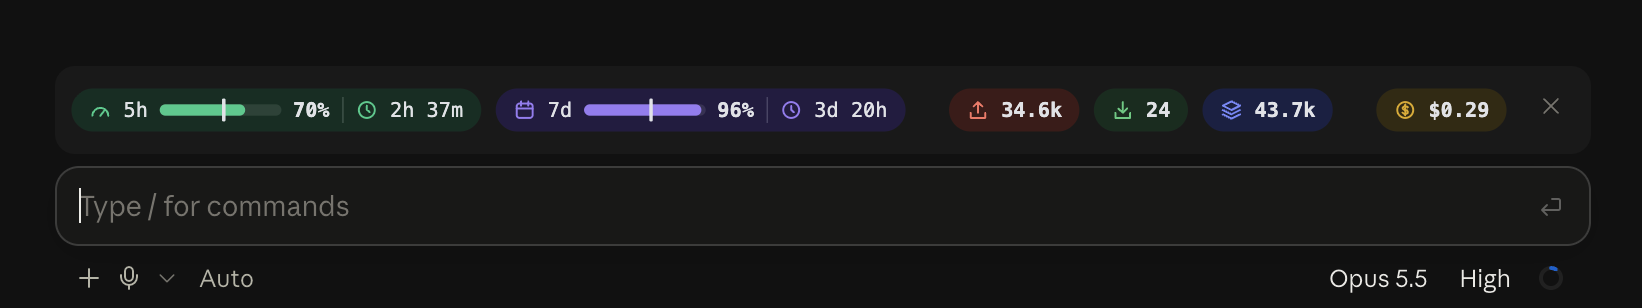
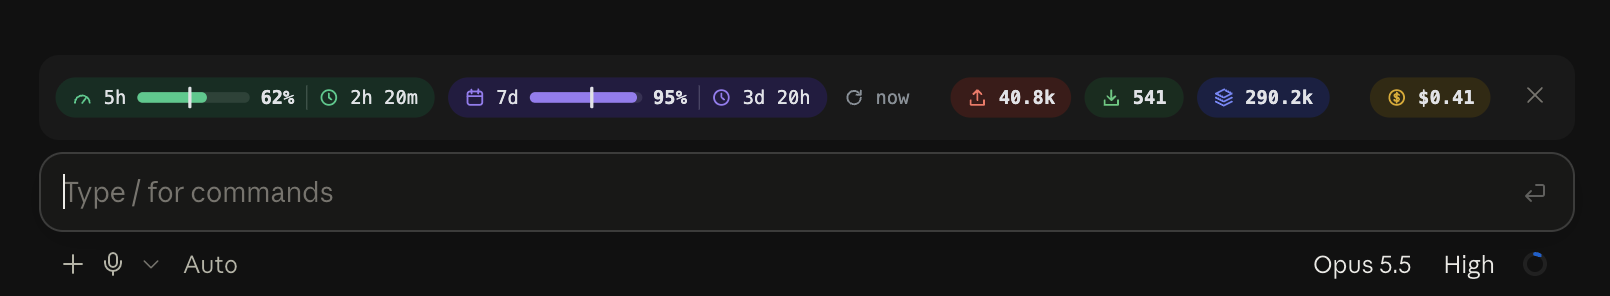
Replace the dark-palette screenshot
Documentation only. The new screenshot shows the reading-age mark.

diff --git a/README.md b/README.md
@@ -119,7 +119,7 @@ Options are read from `pluginConfigs` in `~/.claude/settings.json`, keyed by the
 | `showUpdated` | `true` | Show how long ago the rate-limit reading was taken, after the `7d` pill |
 | `countCacheWrites` | `true` | `true`: the up arrow is uncached input plus cache writes. `false`: it is uncached input alone, and cache writes are counted with cache reads |
 
-With `"theme": "dark"` (this screenshot predates the reading-age mark):
+With `"theme": "dark"`:
 
 ![The dark palette in the app's dark theme](docs/screenshot-dark-palette.png)
 

diff --git a/README.zh.md b/README.zh.md
@@ -119,7 +119,7 @@ claude --plugin-dir ~/.claude/mods/usage-bar
 | `showUpdated` | `true` | 在 `7d` 胶囊后显示额度读数是多久之前读到的 |
 | `countCacheWrites` | `true` | `true`：向上箭头为未缓存输入加缓存写入。`false`：只算未缓存输入，缓存写入并入缓存读取一项 |
 
-设置 `"theme": "dark"` 后的效果（这张截图早于读数时间标记的加入）：
+设置 `"theme": "dark"` 后的效果：
 
 ![应用深色主题下的深色配色](docs/screenshot-dark-palette.png)
 

diff --git a/CHANGELOG.md b/CHANGELOG.md
@@ -2,6 +2,12 @@
 
 Versions follow [Semantic Versioning](https://semver.org/).
 
+## 0.3.1 - 2026-10-06
+
+Documentation only; the mod's behavior is unchanged.
+
+- Replaced the dark-palette screenshot with one that shows the reading-age mark.
+
 ## 0.3.0 - 2026-10-06
 
 - The bar now shows how long ago the rate-limit reading was taken, as a refresh mark after the `7d` pill: `now`, `3m`, `1h 5m`.
